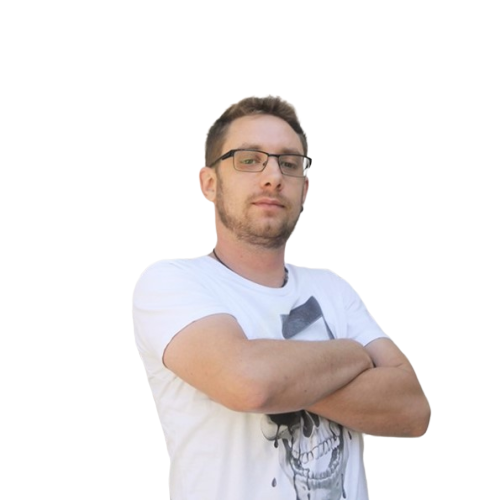
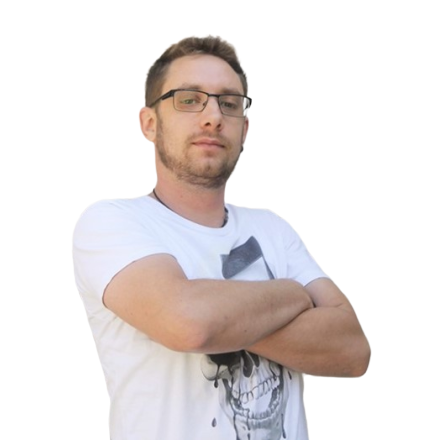
Updated some styles and About page

Changed region(s): [[0.1477, 0.0591, 0.8864, 1.0]]

diff --git a/css/styles.css b/css/styles.css
@@ -4,6 +4,8 @@
   --color-black: #000000;
   --color-black-light: #333333;
   --color-gray: #cccccc;
+  --color-gray-light: #eeeeee;
+  --color-gray-dark: #999999;
   --color-yellow-pale: #FFF2AF;
   --font-size-base: 16px;
   --font-size-sm: .75rem;
@@ -83,6 +85,19 @@ a {
     color: var(--color-black);
     background-size: 100% 100%; }
 
+code:not([class*="language-"]) {
+  padding: 0 var(--gutter-xs);
+  color: var(--color-gray-dark);
+  background-color: var(--color-gray-light);
+  border: 1px solid var(--color-gray); }
+
+img {
+  width: 100%;
+  max-width: 100%; }
+
+/*
+ * @name Components
+ */
 .rf-c-site-nav {
   display: flex;
   flex-wrap: wrap;
@@ -98,7 +113,7 @@ a {
     color: var(--color-black);
     background-size: 100% 50%;
     text-transform: uppercase; }
-    .rf-c-site-nav a:not(.rf-c-site-logo):hover {
+    .rf-c-site-nav a:not(.rf-c-site-logo):hover, .rf-c-site-nav a:not(.rf-c-site-logo).rf-is-active {
       background-size: 100% 100%; }
     .rf-c-site-nav a:not(.rf-c-site-logo)::before {
       display: inline-block;
@@ -178,6 +193,16 @@ a {
   .rf-c-site-footer a {
     padding: 0 var(--gutter-xs);
     color: var(--color-black-light); }
+
+.rf-c-profile-pic {
+  display: block;
+  margin-right: auto;
+  margin-left: auto;
+  background-color: tomato;
+  border-radius: 50%; }
+  @media (min-width: 800px) {
+    .rf-c-profile-pic {
+      width: 20rem; } }
 
 /*
  * @name Vendors
@@ -303,5 +328,17 @@ pre > code.highlight {
 
 .rf-u-text--disabled {
   color: #ccc; }
+
+@media (min-width: 800px) {
+  .rf-u-float--left {
+    float: left;
+    margin-right: var(--gutter-base);
+    margin-bottom: var(--gutter-base); } }
+
+@media (min-width: 800px) {
+  .rf-u-float--right {
+    float: right;
+    margin-left: var(--gutter-base);
+    margin-bottom: var(--gutter-base); } }
 
 /*# sourceMappingURL=styles.css.map */

diff --git a/src/scss/styles.scss b/src/scss/styles.scss
@@ -4,6 +4,8 @@
     --color-black: #000000;
     --color-black-light: #333333;
     --color-gray: #cccccc;
+    --color-gray-light: #eeeeee;
+    --color-gray-dark: #999999;
     --color-yellow-pale: #FFF2AF;
 
     --font-size-base: 16px;
@@ -106,7 +108,26 @@ a {
     }
 }
 
-.rf-c-site-nav {
+code {
+    &:not([class*="language-"]) {
+        padding: 0 var(--gutter-xs);
+        color: var(--color-gray-dark);
+        background-color: var(--color-gray-light);
+        border: 1px solid var(--color-gray);
+    }
+}
+
+img {
+    width: 100%;
+    max-width: 100%;
+}
+
+
+/*
+ * @name Components
+ */
+
+ .rf-c-site-nav {
     display: flex;
     flex-wrap: wrap;
     align-items: center;
@@ -125,7 +146,8 @@ a {
             background-size: 100% 50%;
             text-transform: uppercase;
 
-            &:hover {
+            &:hover,
+            &.rf-is-active {
                 background-size: 100% 100%;
             }
     
@@ -240,6 +262,18 @@ a {
     a {
         padding: 0 var(--gutter-xs);
         color: var(--color-black-light);
+    }
+}
+
+.rf-c-profile-pic {
+    display: block;
+    margin-right: auto;
+    margin-left: auto;
+    background-color: tomato;
+    border-radius: 50%;
+    
+    @media (min-width: 800px) {
+        width: 20rem;
     }
 }
 
@@ -400,4 +434,20 @@ pre {
 
 .rf-u-text--disabled {
     color: #ccc;
+}
+
+.rf-u-float--left {    
+    @media (min-width: 800px) {
+        float: left;
+        margin-right: var(--gutter-base);
+        margin-bottom: var(--gutter-base);
+    }
+}
+
+.rf-u-float--right {
+    @media (min-width: 800px) {
+        float: right;
+        margin-left: var(--gutter-base);
+        margin-bottom: var(--gutter-base);
+    }
 }

diff --git a/about/index.md b/about/index.md
@@ -6,11 +6,11 @@ tags:
 navtitle: About
 ---
 
-![alt text](https://refreshd.net/img/zoran-zlokapa-profile-pic.png "This is me, Zoran Zlokapa, but everybody calls me Zoka")
+<img src="/img/zoran-zlokapa-profile-pic.png" alt="This is picture of me, Zoran Zlokapa, but everybody calls me Zoka" class="rf-c-profile-pic">
 
-I am a simple frontend developer. With over 15 years of experience in designing, developing and producing web interfaces, you might say I’ve seen some stuff. I started building websites with `<table>`s, then `float`s and now with `flex` and `grid`. Even after all these years in the field, I’m still excited about all the things you can do with and on the interwebs. 
+With over 15 years of experience in designing, developing and producing web interfaces, you might say I’ve seen some stuff. I started building websites with `<table>`s, then `float`s and now with `flex` and `grid`. Even after all these years in the field, I’m still excited about all the things you can do with and on the Interwebs. 
 
-I love helping clients establish their online presence and help them reach and communicate with their  customers more easily. After that, I test, analyse and improve everything.  Also I help designer and developer teams come up with design systems that serve as single source of truth so that developing new features is faster and easier.
+I love helping clients establish their online presence and help them reach and communicate with their customers more easily. After that, I test, analyse and improve everything.  Also I help designer and developer teams come up with design systems that serve as single source of truth so that developing new features is faster and easier.
 
 Currently, I’m working as frontend developer at [Vivify Ideas](https://vivifyideas.com "Vivify Ideas") and I’m a teacher at [Vivify Academy](https://academy.vivifyideas.com "Vivify Academy"). There I work with startups, medium and large companies helping them bring their ideas to life. At our Academy, I created curriculum and I teach basics of aesthetics, design and more importantly, HTML and CSS.
 
